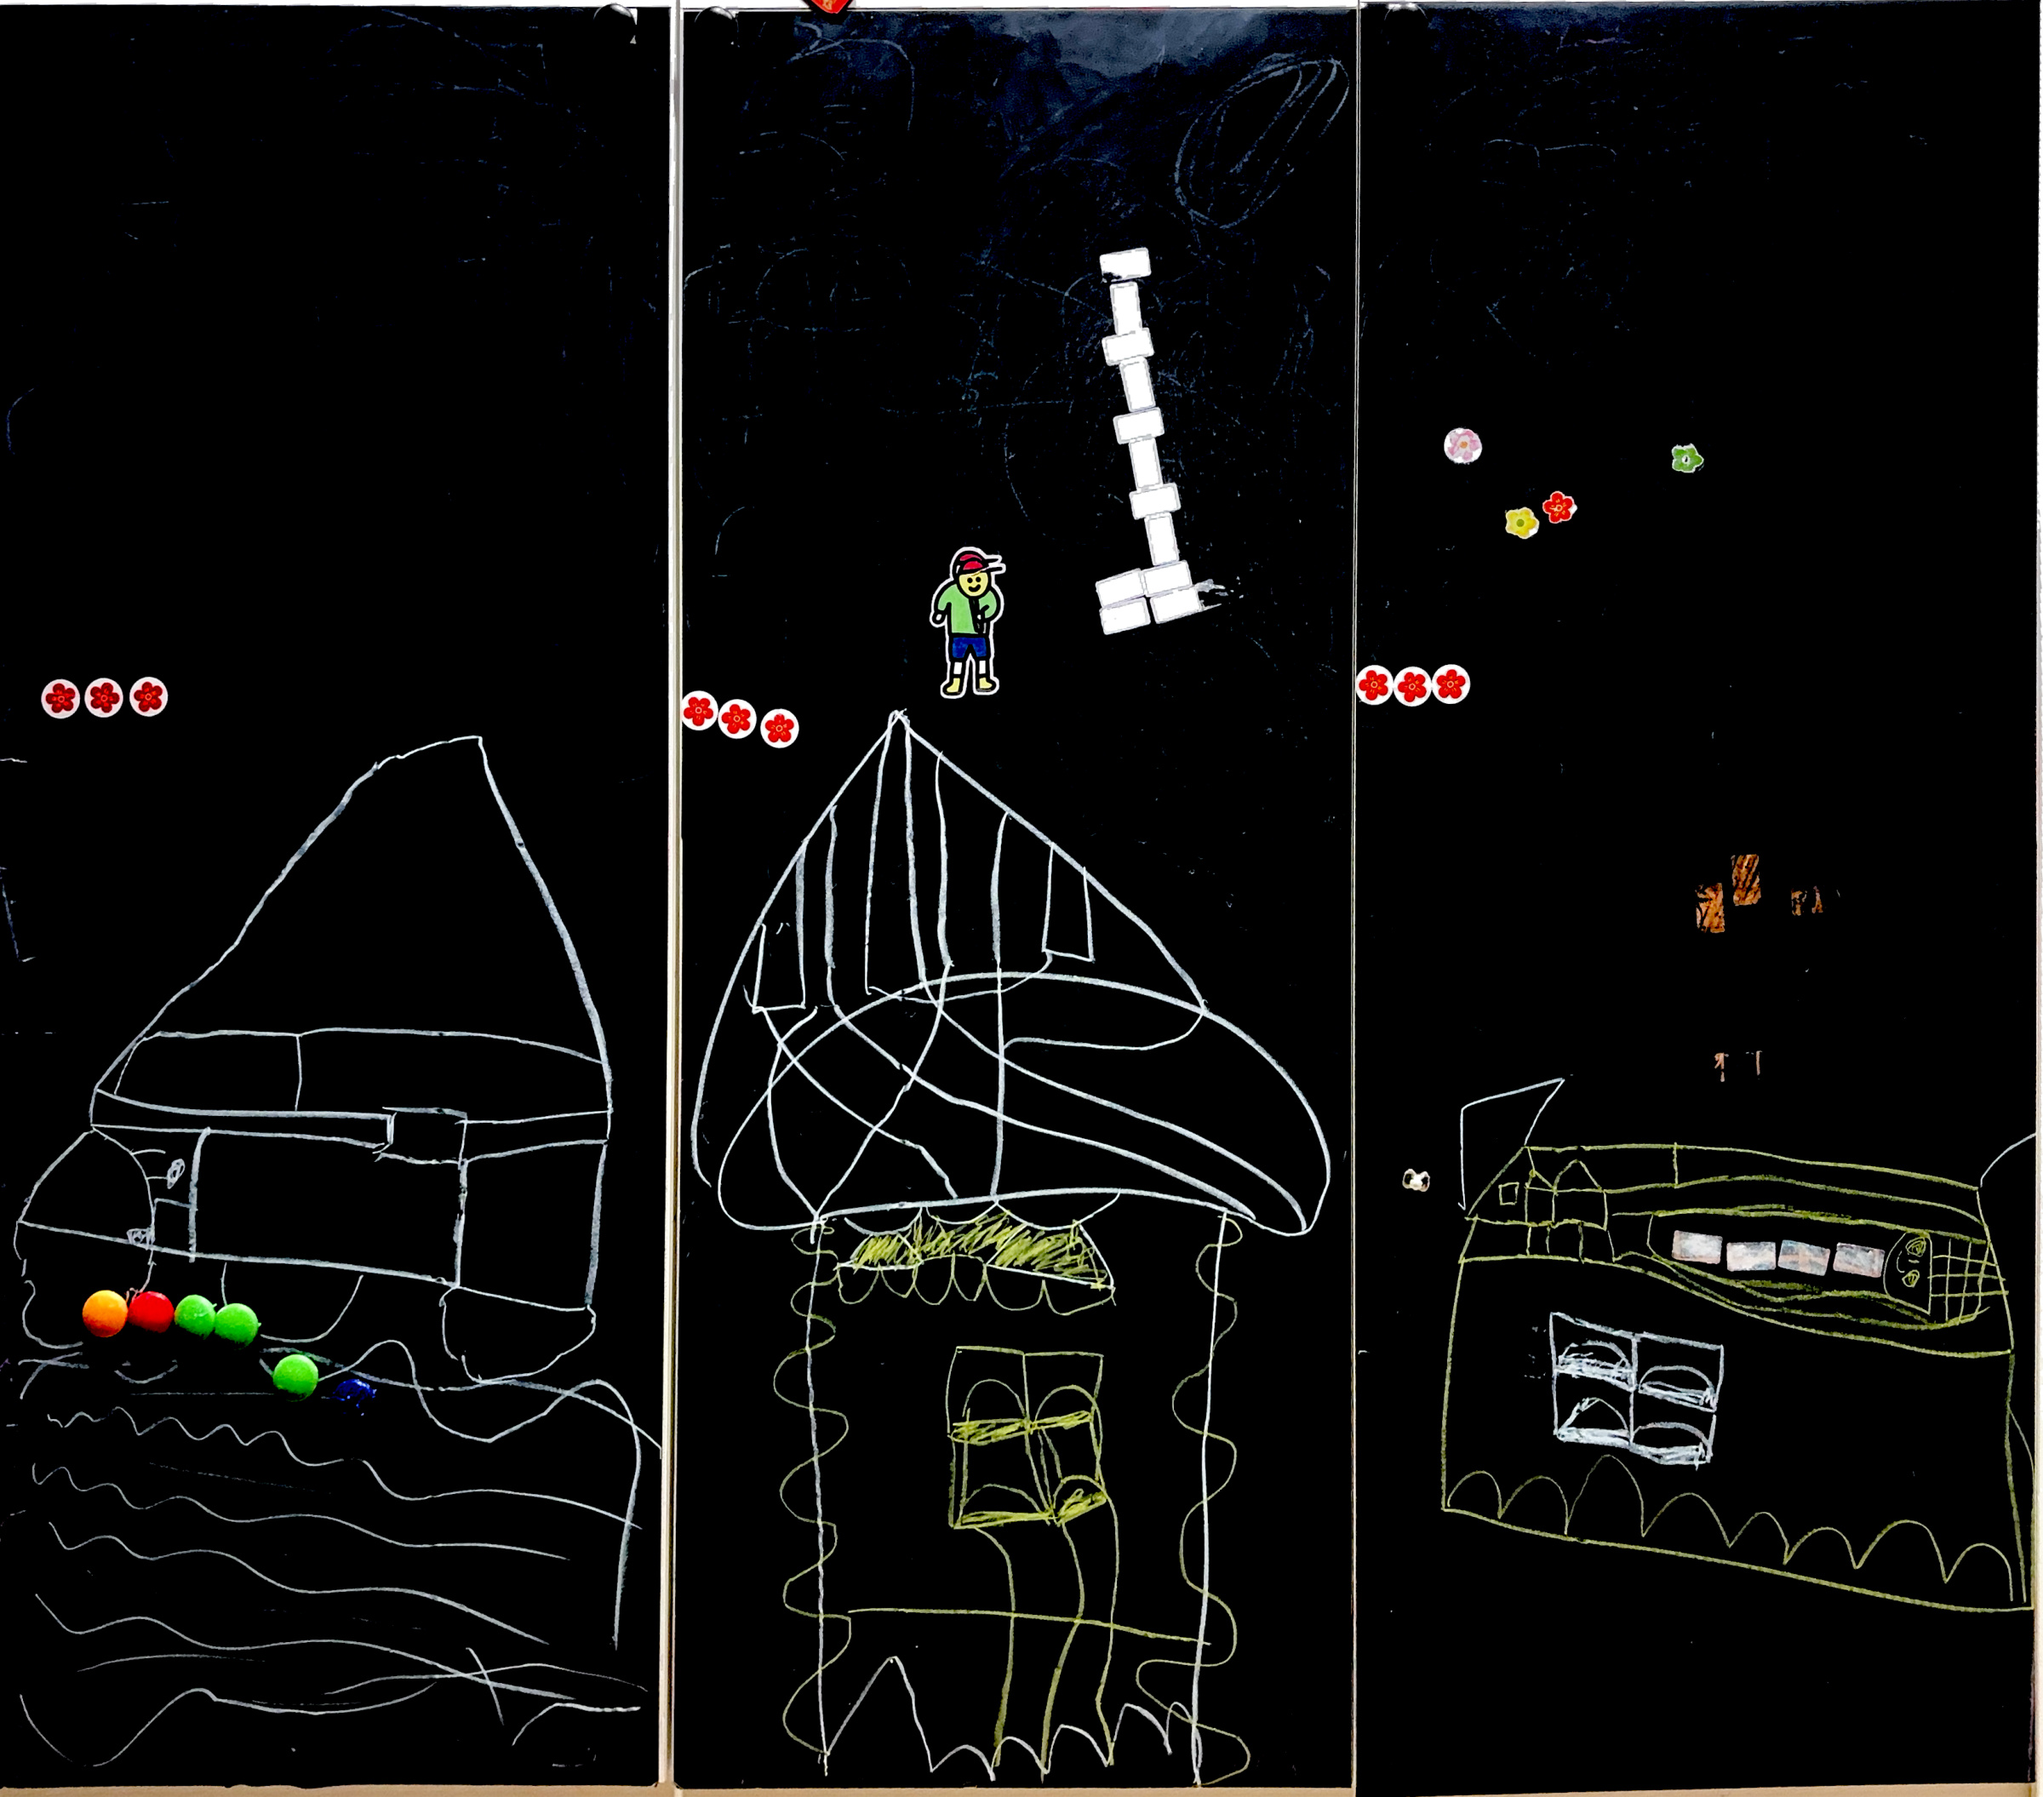
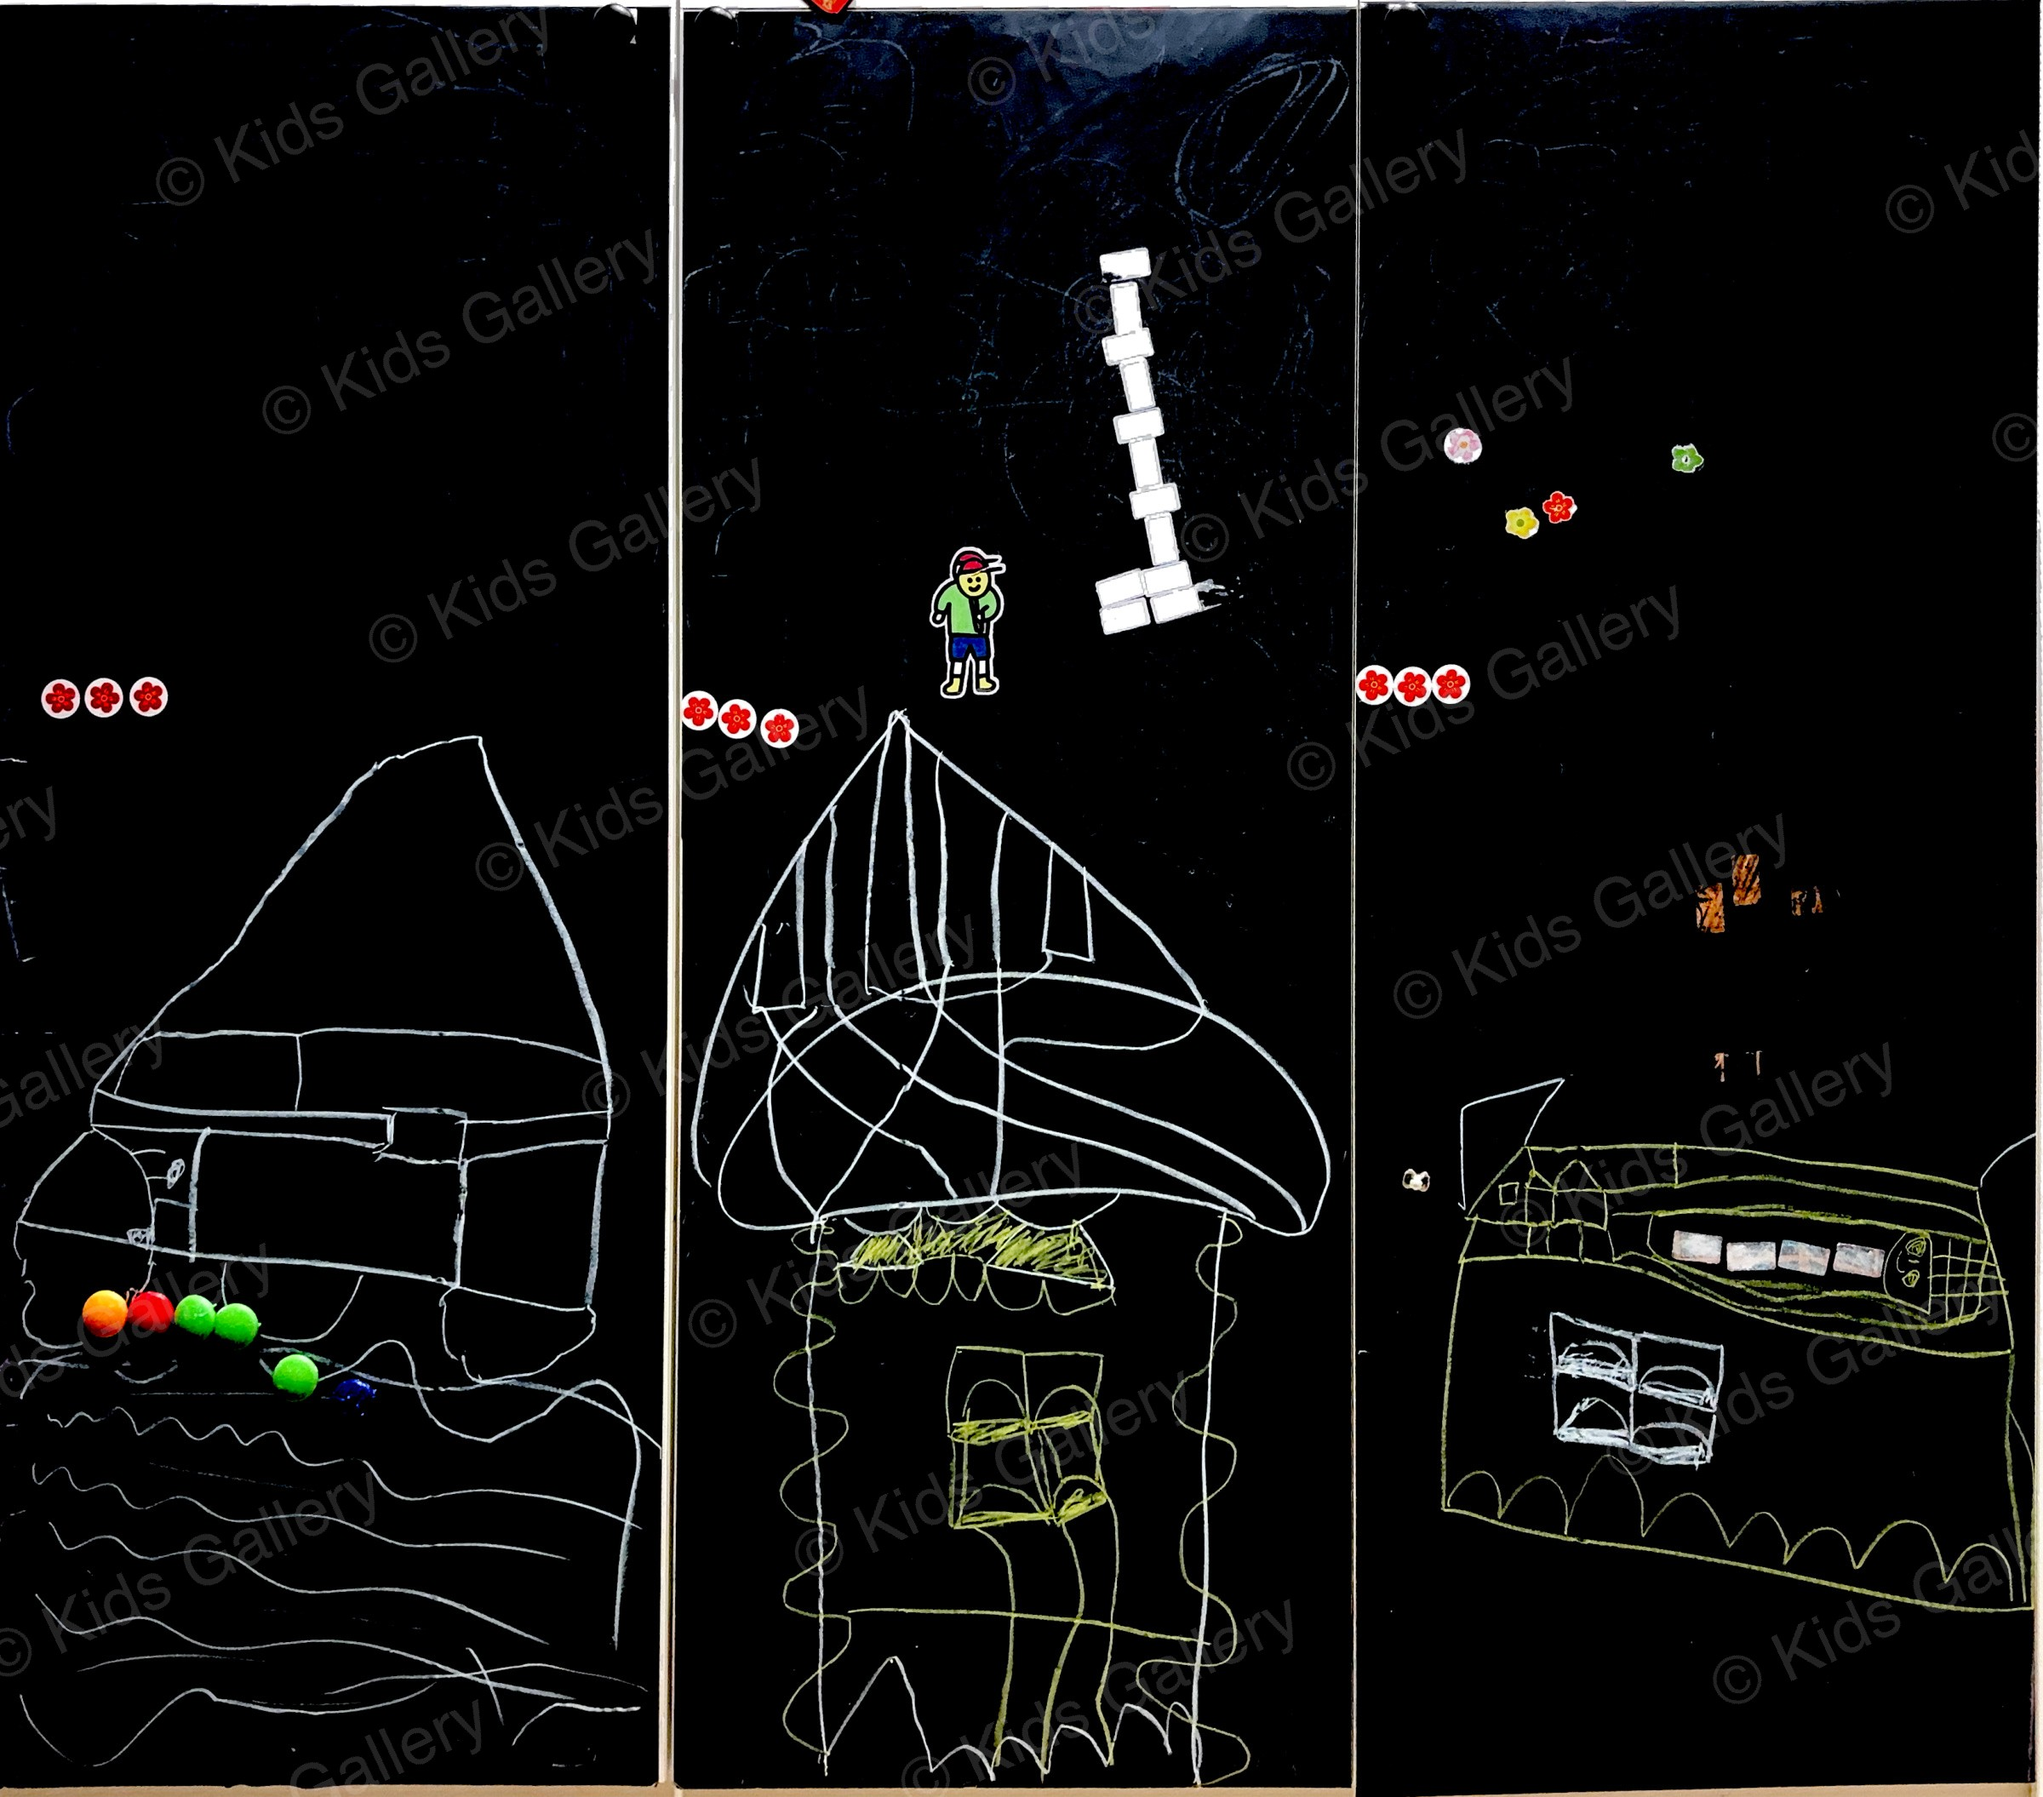
Burn hard watermarks into all images, keep originals local
- All images now have "© Kids Gallery" watermark baked into the JPG
- Original (clean) images saved in _original/ subdirectories
- _original/ directories are gitignored (local only)
- add.py updated: auto-generates watermarked + original on import
- .gitignore: exclude _original/ and .DS_Store

diff --git a/add.py b/add.py
@@ -8,18 +8,23 @@ Usage:
   python3 add.py yoga /path/to/folder/   # add all PDFs/images in folder
 
 Options:
-  --hierarchical     Upload the file/folder hierarchy as-is (for multi-level folders).
   --push             Auto git add, commit & push after adding.
   --title "My Title" Set a custom title (only for single-file adds).
   --desc  "描述"      Set a custom description.
+
+Images are saved in two versions:
+  images/artworks/<child>/           ← watermarked (pushed to GitHub)
+  images/artworks/<child>/_original/ ← clean originals (local only, gitignored)
 """
 
-import sys, os, json, shutil, glob, argparse
+import sys, os, json, shutil, glob, argparse, math
 from datetime import datetime
+from PIL import Image, ImageDraw, ImageFont
 
 SCRIPT_DIR = os.path.dirname(os.path.abspath(__file__))
 DATA_FILE  = os.path.join(SCRIPT_DIR, "data", "artworks.json")
 IMG_BASE   = os.path.join(SCRIPT_DIR, "images", "artworks")
+WATERMARK_TEXT = "© Kids Gallery"
 
 def load_data():
     with open(DATA_FILE, "r", encoding="utf-8") as f:
@@ -30,8 +35,45 @@ def save_data(data):
         json.dump(data, f, ensure_ascii=False, indent=2)
     print(f"  Updated {DATA_FILE}")
 
-def pdf_to_images(pdf_path, out_dir):
-    """Convert a PDF to JPG images. Returns list of output filenames."""
+def add_watermark(src_path, dst_path):
+    """Burn tiled diagonal watermark into image."""
+    img = Image.open(src_path).convert("RGBA")
+    w, h = img.size
+
+    diag = math.sqrt(w * w + h * h)
+    font_size = max(16, int(diag * 0.025))
+
+    try:
+        font = ImageFont.truetype("/System/Library/Fonts/Helvetica.ttc", font_size)
+    except:
+        font = ImageFont.load_default()
+
+    # Measure text
+    tmp_draw = ImageDraw.Draw(Image.new("RGBA", (1, 1)))
+    bbox = tmp_draw.textbbox((0, 0), WATERMARK_TEXT, font=font)
+    tw = bbox[2] - bbox[0]
+    th = bbox[3] - bbox[1]
+
+    step_x = tw + int(tw * 0.8)
+    step_y = th + int(th * 3)
+
+    canvas_size = int(diag * 1.5)
+    txt_layer = Image.new("RGBA", (canvas_size, canvas_size), (0, 0, 0, 0))
+    txt_draw = ImageDraw.Draw(txt_layer)
+
+    for y in range(0, canvas_size, step_y):
+        for x in range(0, canvas_size, step_x):
+            txt_draw.text((x, y), WATERMARK_TEXT, font=font, fill=(255, 255, 255, 35))
+
+    txt_layer = txt_layer.rotate(25, expand=False, center=(canvas_size // 2, canvas_size // 2))
+    cx, cy = canvas_size // 2, canvas_size // 2
+    txt_layer = txt_layer.crop((cx - w // 2, cy - h // 2, cx - w // 2 + w, cy - h // 2 + h))
+
+    result = Image.alpha_composite(img, txt_layer).convert("RGB")
+    result.save(dst_path, "JPEG", quality=90)
+
+def pdf_to_images(pdf_path, out_dir, orig_dir):
+    """Convert PDF to JPGs. Save originals + watermarked. Returns list of filenames."""
     try:
         import fitz
     except ImportError:
@@ -47,21 +89,35 @@ def pdf_to_images(pdf_path, out_dir):
         zoom = min(2.0, 2400 / max(page.rect.width, page.rect.height))
         pix = page.get_pixmap(matrix=fitz.Matrix(zoom, zoom))
         fname = f"{safe}_p{i+1}.jpg" if len(doc) > 1 else f"{safe}.jpg"
-        out_path = os.path.join(out_dir, fname)
-        pix.save(out_path)
-        size_kb = os.path.getsize(out_path) / 1024
-        print(f"  Converted: {fname} ({pix.width}x{pix.height}, {size_kb:.0f}KB)")
+
+        # Save original
+        orig_path = os.path.join(orig_dir, fname)
+        pix.save(orig_path)
+
+        # Save watermarked
+        wm_path = os.path.join(out_dir, fname)
+        add_watermark(orig_path, wm_path)
+
+        size_kb = os.path.getsize(wm_path) / 1024
+        print(f"  {fname} ({pix.width}x{pix.height}, {size_kb:.0f}KB) + original saved")
         outputs.append(fname)
     doc.close()
     return outputs
 
-def copy_image(src_path, out_dir):
-    """Copy an image file to out_dir. Returns the filename."""
+def copy_image(src_path, out_dir, orig_dir):
+    """Copy image: original to _original/, watermarked to out_dir. Returns filename."""
     fname = os.path.basename(src_path).replace(" ", "_")
-    dst = os.path.join(out_dir, fname)
-    shutil.copy2(src_path, dst)
-    size_kb = os.path.getsize(dst) / 1024
-    print(f"  Copied: {fname} ({size_kb:.0f}KB)")
+
+    # Save original
+    orig_path = os.path.join(orig_dir, fname)
+    shutil.copy2(src_path, orig_path)
+
+    # Save watermarked
+    wm_path = os.path.join(out_dir, fname)
+    add_watermark(orig_path, wm_path)
+
+    size_kb = os.path.getsize(wm_path) / 1024
+    print(f"  {fname} ({size_kb:.0f}KB) + original saved")
     return fname
 
 def guess_date(filename):
@@ -75,14 +131,14 @@ def guess_date(filename):
         return f"{m.group(1)}-{int(m.group(2)):02d}"
     return datetime.now().strftime("%Y-%m")
 
-def process_file(filepath, child, out_dir, title=None, desc=None):
+def process_file(filepath, child, out_dir, orig_dir, title=None, desc=None):
     """Process a single file (PDF or image). Returns list of new entries."""
     ext = os.path.splitext(filepath)[1].lower()
     entries = []
     date = guess_date(os.path.basename(filepath))
 
     if ext == ".pdf":
-        fnames = pdf_to_images(filepath, out_dir)
+        fnames = pdf_to_images(filepath, out_dir, orig_dir)
         for i, fname in enumerate(fnames):
             t = title if (title and len(fnames) == 1) else f"{title or os.path.splitext(os.path.basename(filepath))[0]} p{i+1}" if len(fnames) > 1 else (title or os.path.splitext(os.path.basename(filepath))[0])
             entries.append({
@@ -92,7 +148,7 @@ def process_file(filepath, child, out_dir, title=None, desc=None):
                 "description": desc or ""
             })
     elif ext in (".jpg", ".jpeg", ".png", ".webp", ".heic"):
-        fname = copy_image(filepath, out_dir)
+        fname = copy_image(filepath, out_dir, orig_dir)
         entries.append({
             "file": fname,
             "title": title or os.path.splitext(os.path.basename(filepath))[0],
@@ -114,7 +170,9 @@ def main():
     args = parser.parse_args()
 
     out_dir = os.path.join(IMG_BASE, args.child)
+    orig_dir = os.path.join(out_dir, "_original")
     os.makedirs(out_dir, exist_ok=True)
+    os.makedirs(orig_dir, exist_ok=True)
 
     data = load_data()
     if args.child not in data:
@@ -124,7 +182,6 @@ def main():
     path = os.path.expanduser(args.path)
 
     if os.path.isdir(path):
-        # Process all PDFs and images in the folder
         files = sorted(glob.glob(os.path.join(path, "*")))
         files = [f for f in files if os.path.splitext(f)[1].lower() in (".pdf", ".jpg", ".jpeg", ".png", ".webp", ".heic")]
         if not files:
@@ -133,10 +190,10 @@ def main():
         print(f"Found {len(files)} file(s) in {path}")
         for f in files:
             print(f"\nProcessing: {os.path.basename(f)}")
-            new_entries.extend(process_file(f, args.child, out_dir, desc=args.desc))
+            new_entries.extend(process_file(f, args.child, out_dir, orig_dir, desc=args.desc))
     elif os.path.isfile(path):
         print(f"Processing: {os.path.basename(path)}")
-        new_entries = process_file(path, args.child, out_dir, title=args.title, desc=args.desc)
+        new_entries = process_file(path, args.child, out_dir, orig_dir, title=args.title, desc=args.desc)
     else:
         print(f"ERROR: {path} not found")
         sys.exit(1)
@@ -149,6 +206,7 @@ def main():
     save_data(data)
 
     print(f"\n✅ Added {len(new_entries)} artwork(s) for {args.child}")
+    print(f"   Originals saved in: {orig_dir}")
 
     if args.push:
         print("\nCommitting and pushing...")
